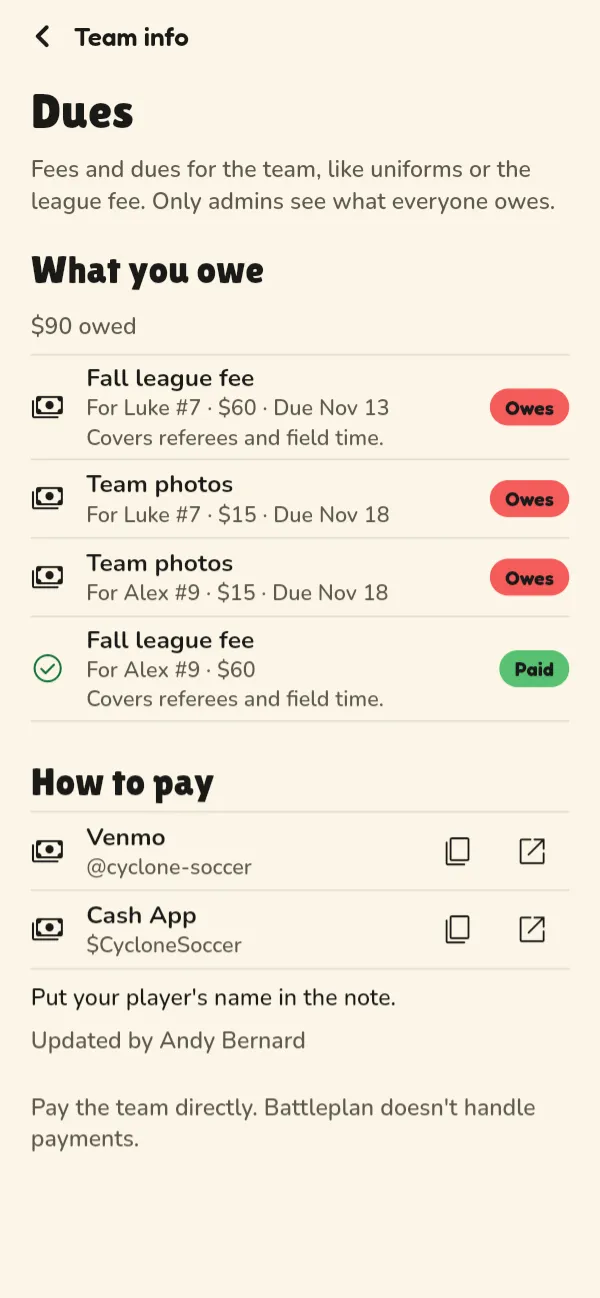
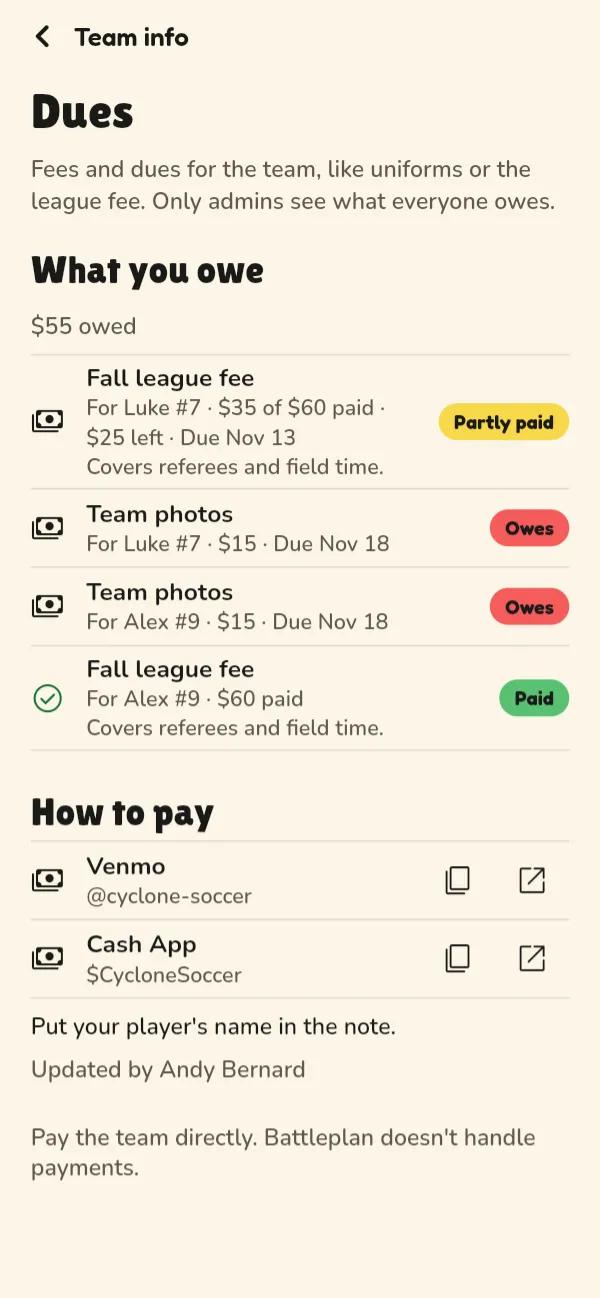
The landing page's Group chat screenshot is Riverside Sluggers' chat, and both Dues screenshots show partial payments, retaken from the seed with alt text that says what each one shows

diff --git a/website/index.html b/website/index.html
@@ -227,7 +227,7 @@
           <li class="tile">
             <h3>Group chat</h3>
             <p>Photos, replies, mentions, and pinned announcements.</p>
-            <div class="shot"><div class="phone"><img src="/images/team-chat-navy.webp" width="600" height="1298" loading="lazy" decoding="async" alt="Riverside Sluggers' team chat in the Navy color scheme, the day after a walk-off win: a guardian's small photo of the scoreboard with its reactions, your own reminder about gloves, bats, and helmets in a red bubble, marked Sent, and messages about sunflower seeds and batting gloves."><span class="tag" data-s="navy" aria-hidden="true">Navy</span></div></div>
+            <div class="shot"><div class="phone"><img src="/images/team-chat-navy.webp" width="600" height="1298" loading="lazy" decoding="async" alt="Riverside Sluggers' team chat in the Navy color scheme, the day after a walk-off win: Kelly, Mateo's guardian, shares a small photo of the Riverside Park scoreboard, still smiling about Mateo's walk-off double, with 2 Love and 2 Fire reactions; your own message in a red bubble, marked Sent: what a finish, and for Saturday, gloves, bats, and helmets, with catchers bringing their gear; Dave, Ben's guardian, says sunflower seeds and the water cooler are on them, with a Like and a Love; and Jen, Leo's guardian, says Leo found his batting gloves, crisis averted."><span class="tag" data-s="navy" aria-hidden="true">Navy</span></div></div>
           </li>
           <li class="tile">
             <h3>Games and RSVPs</h3>
@@ -321,8 +321,8 @@
           </ul>
         </div>
         <div class="spot-media pair">
-          <div class="phone"><img src="/images/dues-army.webp" width="600" height="1298" loading="lazy" decoding="async" alt="A team admin's Dues screen in the Army green color scheme: a $30 tournament fee, 1 of 2 paid with $30 still owed, and $45 uniforms, 2 of 3 paid with $45 still owed, then How to pay with the team's Venmo and Cash App."><span class="tag" data-s="army" aria-hidden="true">Army green</span></div>
-          <div class="phone"><img src="/images/dues-mine-light.webp" width="600" height="1298" loading="lazy" decoding="async" alt="What you owe in the Light color scheme: a guardian's dues for Luke and Alex, $90 owed in all, with Luke's fall league fee and team photos and Alex's team photos marked Owes and Alex's fall league fee marked Paid, then How to pay with the team's Venmo and Cash App."><span class="tag" data-s="light" aria-hidden="true">Light</span></div>
+          <div class="phone"><img src="/images/dues-army.webp" width="600" height="1298" loading="lazy" decoding="async" alt="Thunder's Dues screen as a team admin sees it, in the Army green color scheme: $195 owed in all, $140 paid, and $55 left, with Who owes what under it; a $30 tournament fee due Nov 10, 1 of 2 paid with $30 left; $45 uniforms due Nov 16, 2 of 3 paid and 1 partly paid with $25 left; then How to pay with the team's Venmo and Cash App."><span class="tag" data-s="army" aria-hidden="true">Army green</span></div>
+          <div class="phone"><img src="/images/dues-mine-light.webp" width="600" height="1298" loading="lazy" decoding="async" alt="What you owe on Cyclone in the Light color scheme, a guardian's dues for Luke and Alex: $55 owed. Luke's $60 fall league fee is Partly paid, $35 paid with $25 left, due Nov 13; Luke's and Alex's $15 team photos, due Nov 18, are marked Owes; and Alex's fall league fee is Paid, $60. Then How to pay with the team's Venmo and Cash App."><span class="tag" data-s="light" aria-hidden="true">Light</span></div>
         </div>
       </div>
     </section>

diff --git a/docs/ROADMAP.md b/docs/ROADMAP.md
@@ -9,7 +9,7 @@ Every task and feature for Battleplan, in one numbered list, in the order they s
 - Feature IDs (AUTH-1, CHAT-6, …) point to SPEC §6. The details live there; this file is the order.
 - Milestones M0 to M8 each ended working on iOS, Android, and web, with rules tests updated (SPEC §9). Go-live then runs in six phases, web first (below). Until Phase 4 the native apps keep building and passing tests, but don't ship.
 
-Last updated: 2026-11-07. Dues take partial payments, and admins see who owes what, by due and by person (task 361). Before that, 2026-11-06: the landing page's screenshots, its link preview image, and the Play phone screenshots are retaken in Open Field (task 354). The landing page's Group chat screenshot is becoming a baseball team's chat: the sample data has the team, Riverside Sluggers, and the capture is next (task 360). Super admins open the Admin panel in one tap from Teams and every team's tabs (task 359). The landing page's screenshots, its link preview image, and the Play phone screenshots are retaken in Open Field (task 354). The landing page and its link preview image say it's for groups and sports teams, its Team chat tile is now Group chat, and Apple's App Store badge is on the website and the web app's invite page (task 353). Guardians answer for each of their players on that player's own RSVP row, in the app and from an RSVP email; the All my players shortcut is gone (task 358). The Stencil Crest is the new app icon and brand mark (task 356). The website's landing page is redone in Open Field, with a picker for all five color schemes, fewer words, new screenshots, and structured data and `llms.txt` for search and AI (task 351). Dues are built: admins track who owes and who paid for uniforms and fees, and share how to pay person to person (task 350). Open Field, one look in five color schemes, each person's own per team, with team RSVPs for players only and a color for your icon, is being built (tasks 340 to 349): the schemes, both pickers, the header, tab bars, Teams and Profile, the schedule, the event screen, chat, settings and the other screens, players-only RSVPs, and your icon color are done (tasks 340 to 348). Before that, 2026-10-25: Battleplan 1.1, Gumdrop Pop, is built for the web: three themes, team colors in the backgrounds, and the website to match (tasks 292 to 297); it waits for Release to prod (task 298), and iOS 1.1 is held back (task 299). Before that, 2026-10-17: Sign in with Apple is built, and Firebase has Apple's key in dev and prod; prod shows it after the next Release to prod (tasks 107, 109, 291). Before that, 2026-10-15, after checking every open task against the code and the live projects; a few were done and are now checked off (tasks 120 and 199). Since 2026-10-13: release workflows (tasks 230, 231), the owner's changes from trying the app (tasks 232 to 237), and the brand mark (task 238). Before that: The website and web app are live on prod at https://getbattleplan.app (Phase 1 tasks 111, 114 to 118, 121, 134, 187). M5 (Polls), M6 (Schedule), M7 (Documents), and M8 (God admin panel) are built, and the website is live on dev with the web app at /app. The first three v1.1 tasks are built: mentions, pins, and announcements; roster details and contact sharing; and answering for all my players with each player's RSVP history (tasks 135 to 137). Teams are now one type with players on every team, claims, and admin approval (tasks 181 to 186), and coaches can keep player details such as date of birth (tasks 216 to 218). The old M9 and Launch sections are replaced by six go-live phases: the website and web app first, then GDPR, backups, and security, then Sign in with Apple, the App Store, Google Play, and Facebook sign-in, each in its own phase (D60).
+Last updated: 2026-11-07. Dues take partial payments, and admins see who owes what, by due and by person, and the landing page's Dues screenshots show it (task 361). Before that, 2026-11-06: the landing page's screenshots, its link preview image, and the Play phone screenshots are retaken in Open Field (task 354). The landing page's Group chat screenshot is a baseball team's chat, Riverside Sluggers' (task 360). Super admins open the Admin panel in one tap from Teams and every team's tabs (task 359). The landing page's screenshots, its link preview image, and the Play phone screenshots are retaken in Open Field (task 354). The landing page and its link preview image say it's for groups and sports teams, its Team chat tile is now Group chat, and Apple's App Store badge is on the website and the web app's invite page (task 353). Guardians answer for each of their players on that player's own RSVP row, in the app and from an RSVP email; the All my players shortcut is gone (task 358). The Stencil Crest is the new app icon and brand mark (task 356). The website's landing page is redone in Open Field, with a picker for all five color schemes, fewer words, new screenshots, and structured data and `llms.txt` for search and AI (task 351). Dues are built: admins track who owes and who paid for uniforms and fees, and share how to pay person to person (task 350). Open Field, one look in five color schemes, each person's own per team, with team RSVPs for players only and a color for your icon, is being built (tasks 340 to 349): the schemes, both pickers, the header, tab bars, Teams and Profile, the schedule, the event screen, chat, settings and the other screens, players-only RSVPs, and your icon color are done (tasks 340 to 348). Before that, 2026-10-25: Battleplan 1.1, Gumdrop Pop, is built for the web: three themes, team colors in the backgrounds, and the website to match (tasks 292 to 297); it waits for Release to prod (task 298), and iOS 1.1 is held back (task 299). Before that, 2026-10-17: Sign in with Apple is built, and Firebase has Apple's key in dev and prod; prod shows it after the next Release to prod (tasks 107, 109, 291). Before that, 2026-10-15, after checking every open task against the code and the live projects; a few were done and are now checked off (tasks 120 and 199). Since 2026-10-13: release workflows (tasks 230, 231), the owner's changes from trying the app (tasks 232 to 237), and the brand mark (task 238). Before that: The website and web app are live on prod at https://getbattleplan.app (Phase 1 tasks 111, 114 to 118, 121, 134, 187). M5 (Polls), M6 (Schedule), M7 (Documents), and M8 (God admin panel) are built, and the website is live on dev with the web app at /app. The first three v1.1 tasks are built: mentions, pins, and announcements; roster details and contact sharing; and answering for all my players with each player's RSVP history (tasks 135 to 137). Teams are now one type with players on every team, claims, and admin approval (tasks 181 to 186), and coaches can keep player details such as date of birth (tasks 216 to 218). The old M9 and Launch sections are replaced by six go-live phases: the website and web app first, then GDPR, backups, and security, then Sign in with Apple, the App Store, Google Play, and Facebook sign-in, each in its own phase (D60).
 
 ---
 
@@ -316,7 +316,7 @@ The owner's request (2026-10-25): Gumdrop Pop Navy as the default look, named Gu
 348. ✅ Your icon color (owner's request 2026-11-06: "Let each user pick a color they want their icon to be if they don't choose an image. Show the icon in the bubble next to their messages in chat."; SPEC SET-8, CHAT-1, ARCH §6.2). *Profile → Your icon has seven candy colors (Blue raspberry, Lemon, Mint, Grape, Bubblegum, Tangerine, Cherry) for when there's no photo, with an In chat preview; until someone picks, the hashed color shows as picked, and Profile's row says Photo or the color's name. The color is `users.avatarColor`; Functions copy it to every membership and the direct chats' people map, on a change and at every new membership, and each message snapshots it as `authorAvatarColor`, so older messages keep their color. The admin console, @mention suggestions and Blocked people keep the hashed color. Icons get a thin ring in Light blue.*
 349. Refuse new member RSVPs on teams, once builds from before task 347 have aged out (ARCH §6.3).
 350. ✅ Dues (owner's request 2026-11-06: "Add a new feature called “Dues” where team admins can assign dues/fees to players (in teams) or individuals (in groups) to track who paid for things like uniforms, team fees, etc. … i do not want the site to be used to process payments … Don't let non-admins see what other people owe/paid."; SPEC DUES-1 to DUES-4, §3, §5.1, ARCH §5.4, §6.2, §6.3). *Team info → **Dues**: admins add a due (what it's for, an amount up to $10,000 in US dollars, an optional date and note) for every player on a team or every member of a group, any unchecked, and mark each person Paid, Not paid, or Waived, seeing "4 of 12 paid · $90 owed"; editing changes everyone's share, and deleting takes the shares too. Everyone else sees only What you owe: their own share in a group, or their players' on a team. **How to pay** shares a Venmo username, Cash App $cashtag, Apple Cash phone or email, and a note, with Copy, and Open on the web and Android; Battleplan never takes payments. Three new collections, `dues` (admins only), `dueCharges` (one per person, read by admins and that person or the player's linked members), and `duesPayments`, with their own rules, so older builds are untouched; the `saveDue` and `deleteDue` callables add, edit, and delete a due with all its shares in one batch, and Functions delete them with the team. Checked against both stores' payment rules on 2026-11-06, at the owner's request ("Make sure the dues section is not going to run into compliance problems with apple app store or google play rules or require to give them a cut of team fees."): neither store takes a cut, since dues are paid person to person for real-world things; the App Review and Play notes say so, and the store checklist's Store payment rules has the guidelines.*
-361. ✅ Partial payments, and who owes what (owner's request 2026-11-07: "In the dues section, allow for and account for partial payments for items. In the admin page make sure there's a good breakdown of who owes what."; SPEC DUES-1, DUES-2, DUES-4, DUES-5, §3, ARCH §5.4, §6.2, §6.3, §6.4, §15). *Admins open a share and **Record a payment** (any amount up to what's left, the day it was paid, and a short note), **Mark paid in full** (what's left, in one tap), **Waive the rest**, or **Undo** a mistaken payment; shares read Owes, Partly paid ("$20 of $45 paid · $25 left"), Paid, or Waived, and members see what they've paid and what's left on their own, and open a share to see its payments. The Dues screen opens with what's owed in all, paid, and left, and **Who owes what** (`/g/{groupId}/dues/people`) lists each person, who owes most first, with every due they're on; each row reads as one sentence to screen readers ("Ava #12, Tournament fee, $20 left of $30"). Each share keeps its payments (`payments`, at most 50, and `paidCents`), written by the app in a transaction that the rules check is one payment added in the admin's own name or one taken back, with the total never over the amount, so two admins recording at once both count. `saveDue` edits in a transaction, keeps every payment, and refuses an amount below what someone paid; a share marked paid before this counts as paid in full. Still record keeping only: Battleplan never takes or moves money. The privacy policy, STORE-PRIVACY.md, the store review notes, the iPhone privacy manifest's note, `llms.txt`, and the landing page's Dues section and FAQ say so; the seed's Thunder and Cyclone dues have a mix of paid, partly paid, and owed. 👤 **Jared:** run **Release to dev**, then **Release to prod**, so the rules and `saveDue` go out with the web app (a web app on older rules can't record a payment, and an older `saveDue` would copy a new amount without the payments' statuses), and retake the landing page's `dues-army.webp` and `dues-mine-light.webp` from the seed ([website/README.md](../website/README.md), "Screenshots").*
+361. ✅ Partial payments, and who owes what (owner's request 2026-11-07: "In the dues section, allow for and account for partial payments for items. In the admin page make sure there's a good breakdown of who owes what."; SPEC DUES-1, DUES-2, DUES-4, DUES-5, §3, ARCH §5.4, §6.2, §6.3, §6.4, §15). *Admins open a share and **Record a payment** (any amount up to what's left, the day it was paid, and a short note), **Mark paid in full** (what's left, in one tap), **Waive the rest**, or **Undo** a mistaken payment; shares read Owes, Partly paid ("$20 of $45 paid · $25 left"), Paid, or Waived, and members see what they've paid and what's left on their own, and open a share to see its payments. The Dues screen opens with what's owed in all, paid, and left, and **Who owes what** (`/g/{groupId}/dues/people`) lists each person, who owes most first, with every due they're on; each row reads as one sentence to screen readers ("Ava #12, Tournament fee, $20 left of $30"). Each share keeps its payments (`payments`, at most 50, and `paidCents`), written by the app in a transaction that the rules check is one payment added in the admin's own name or one taken back, with the total never over the amount, so two admins recording at once both count. `saveDue` edits in a transaction, keeps every payment, and refuses an amount below what someone paid; a share marked paid before this counts as paid in full. Still record keeping only: Battleplan never takes or moves money. The privacy policy, STORE-PRIVACY.md, the store review notes, the iPhone privacy manifest's note, `llms.txt`, and the landing page's Dues section and FAQ say so; the seed's Thunder and Cyclone dues have a mix of paid, partly paid, and owed. 👤 **Jared:** run **Release to dev**, then **Release to prod**, so the rules and `saveDue` go out with the web app (a web app on older rules can't record a payment, and an older `saveDue` would copy a new amount without the payments' statuses). The landing page's `dues-army.webp` (Thunder as an admin: $195 owed in all, $140 paid, $55 left, with **Who owes what** under it, and the uniforms 2 of 3 paid · 1 partly paid · $25 left) and `dues-mine-light.webp` (Claire's **What you owe** on Cyclone: $55 owed, Luke's league fee Partly paid, $35 of $60) were retaken from the seed 2026-11-07, with their alt text to match ([website/README.md](../website/README.md), "Screenshots").*
 358. ✅ Each player on their own RSVP row, with no All my players (owner's request 2026-11-06: "Remove the “all my players” option. Each player should be individually listed and addressed in the RSVP section."; SPEC PLAYER-11, SCHED-4, SCHED-14, ARCH §6.15, §15). *A guardian of two or more players answers for each one on their own row, named by first name, with that player's own Going / Maybe / Not going, on the event's page, the chat card, and the schedule list; a tap changes that player's answer alone. The All my players row above them is gone from the event's page and the chat card, with its batch write (`RsvpRepository.setRsvps`) and its string. The RSVP email (SCHED-14) asks about each player on their own with their own buttons, where it asked "Are Emma and Liam going?" with one answer for both, and its answer page has each player's own answers and note, picking the tapped one for that player and showing the others' saved answers; Send saves only the players given an answer. Notes, deadlines, archived teams, RSVP for a player, and groups work as before; the Firestore rules didn't change, since they already check and count each answer on its own. The email's change reaches people with the next Functions deploy. The landing page's `youth-light.webp` is retaken to match, with Luke and Alex each on their own row. The bare RSVPs heading is gone too: an admin who answers for nobody, like a coach, has no RSVP section unless it gives the deadline or says RSVPs are closed, and Who's going, with RSVP for a player, follows the event's details.*
 359. ✅ The Admin panel in one tap (owner's request 2026-11-07: "make admin panel easier to get to with fewer steps to get there"; SPEC §5.1, §5.5, §6.11, ARCH §5.4, §5.5). *A super admin has an **Admin panel** button, a shield, in the Teams header and in a team's header on every tab, before Messages, on phones; at 840 px and up it's at the foot of the rail instead, on Teams, Profile, and a team's tabs, read as a button rather than a tab. Profile keeps its row. From a team's chat, where the app usually opens, it took three taps (back to Teams, Profile, Admin panel); now one, and it opens over the team, so Back comes back. Inside the panel on phones, every section has the menu now: opened over another page, as Profile's row always opened it, the dashboard and every section had only Back, so the audit log and platform settings took four more taps (a total, Back, the menu, the section) and now take two (the menu, the section); a team's or a person's page keeps Back. The menu's labels end in an ellipsis rather than overflow at large text sizes. Nobody else sees anything new, the panel's code still loads only when it opens, and the `/admin` guard is unchanged. No keyboard shortcut: the app has shortcuts only inside a team (Ctrl/⌘+K, Ctrl/⌘+F), the free keys aren't memorable (Ctrl/⌘+Shift+A is Chrome's tab search), and on the web the rail is one click.*
 357. ✅ The landing page's footer says who made the app (owner's request 2026-11-06: "add a footer on the landing page indicating that the Battleplan app was created by Battle Sports and Battle Baseball."). *"The Battleplan app was created by Battle Sports and Battle Baseball." beside a Battle Baseball wordmark redrawn as inline SVG in the site's own fonts (cream Lilita One BATTLE over coral Black Ops One BASEBALL, outlined in ink on an offset shadow), so nothing loads from elsewhere.*
@@ -329,7 +329,7 @@ The owner's request (2026-10-25): Gumdrop Pop Navy as the default look, named Gu
 352. iOS 1.2: Open Field, icon colors, players-only RSVPs, and Dues (tasks 340 to 351). *Version 1.2.0 in pubspec.yaml since 2026-11-06, since App Store Connect takes no more 1.1.0 builds; [STORE-LISTING.md](STORE-LISTING.md) has 1.2's What's New, the description with Dues, and the Dues review note; the privacy manifest declares Other Financial Info for Dues; the App Store screenshots in `store/app-store/` were retaken in Open Field's Army green on 2026-11-06, with Saturday Run Club's chat (STORE-LISTING.md, Screenshots). Still to do: give the App Review demo team a sample due (`tools/seed/demo-data.ts`). Then 👤 **Jared:** run **Release iOS**; in App Store Connect add version 1.2, pick the build, paste What's New, the description, and the review notes, replace the screenshots, change App Privacy as [STORE-PRIVACY.md](STORE-PRIVACY.md) says under "Dues: what to change in the consoles", and submit it for review. Once 1.2 is out, take "Dues and the new color schemes come to the iPhone app in its next update" off the landing page's FAQ (its text and its JSON-LD), `support.html`, and `llms.txt`.*
 354. ✅ Retake the landing page's screenshots once the app fixes of 2026-11-06 land ([website/README.md](../website/README.md), "Screenshots"), `whiteboard-army.webp` first: it still shows the old sample play, a baseball diamond under Cyclone (a soccer team) with its title cut to "Relay home fro…". The seed now makes it Thunder's play, Relay home (`/g/thunder/plays/thunder-relay-home`). *Retaken 2026-11-06 from the app as of the Stencil Crest, each player's own RSVP row, and the group Saturday Run Club, against freshly seeded emulators: all fourteen of the landing page's screenshots (Thunder's schedule as Jim in all five schemes, Saturday Run Club's group chat with only messages and its small photo, the Eagles game's RSVPs, the tournament poll, documents, All my teams, a guardian's practice with Luke and Alex on their own rows, both Dues views, and Thunder's Relay home on the whiteboard, its title in full), with every alt text and the README's table to match; the link-preview image `og.jpg` from the new schedule shots, with the Stencil Crest and "For Groups and Sports Teams"; and the six Google Play phone screenshots in Open Field's Army green, with the run club's chat first ([STORE-LISTING-PLAY.md](STORE-LISTING-PLAY.md)). The App Store set is still task 352's.*
 355. 👤 **Jared:** Tell everyone about the Privacy Policy and Terms update for Dues (2026-11-06): in the Admin panel, turn on **Announcement banner** (Show a banner to everyone) with text such as "We updated our Privacy Policy and Terms for Dues: getbattleplan.app/privacy", severity Info, ending in 30 days (SPEC §6.11, the policy's "Changes to this policy"). Dues collect something new, so the policy promises to say so in the app or by email. The Terms change only spells out that Battleplan isn't part of payments between members and that deleting a team erases its dues; it takes away no one's rights, so it doesn't need the Terms' 14 days.
-360. The landing page's Group chat screenshot shows a baseball team's chat (owner's request 2026-11-07: "On the landing page there's screenshot of the group chat but it's too generic. Replace it with one about baseball from the perspective of a team chat."; the owner's rule for that shot still holds: "a chat that is just messages, with a small image, and no events showing up in the screenshot"; SPEC WEB-1; [website/README.md](../website/README.md), "Screenshots"). *The sample data has the team: Riverside Sluggers, a youth baseball team in red with its chat bubbles in the team color, owned by the coach, with an assistant coach, three guardians, and nine players, and no events, polls, dues, or documents. Its chat is the day after a walk-off win: pitch counts, a rally cap, a reply about the field after the rain, Kelly's small photo of the scoreboard (`tools/seed/store-shots/scoreboard.jpg`, drawn in code with no people), the coach's reminder about gloves, bats, and helmets, and sunflower seeds. Nobody replies to or mentions the coach, so the coach's bell count doesn't change; everyone has read it, so it opens at the newest message with nothing unread; and the coach still lands on Thunder after signing in, or in Saturday Run Club after `store-shots.ts`, which moves the Sluggers' chat to yesterday afternoon. Claire, Jim, and Rachel aren't on it, so their screenshots don't change. The tile's image is now `website/images/team-chat-navy.webp`, with alt text for the new chat; until it's captured, the file is still Saturday Run Club's chat. Still to do: capture `/g/sluggers/chat` as the coach in Navy and make the alt text exact.*
+360. ✅ The landing page's Group chat screenshot shows a baseball team's chat (owner's request 2026-11-07: "On the landing page there's screenshot of the group chat but it's too generic. Replace it with one about baseball from the perspective of a team chat."; the owner's rule for that shot still holds: "a chat that is just messages, with a small image, and no events showing up in the screenshot"; SPEC WEB-1; [website/README.md](../website/README.md), "Screenshots"). *The sample data has the team: Riverside Sluggers, a youth baseball team in red with its chat bubbles in the team color, owned by the coach, with an assistant coach, three guardians, and nine players, and no events, polls, dues, or documents. Its chat is the day after a walk-off win: pitch counts, a rally cap, a reply about the field after the rain, Kelly's small photo of the scoreboard (`tools/seed/store-shots/scoreboard.jpg`, drawn in code with no people), the coach's reminder about gloves, bats, and helmets, and sunflower seeds. Nobody replies to or mentions the coach, so the coach's bell count doesn't change; everyone has read it, so it opens at the newest message with nothing unread; and the coach still lands on Thunder after signing in, or in Saturday Run Club after `store-shots.ts`, which moves the Sluggers' chat to yesterday afternoon. Claire, Jim, and Rachel aren't on it, so their screenshots don't change. The tile's image, `website/images/team-chat-navy.webp`, was captured 2026-11-07 from `/g/sluggers/chat` as the coach in Navy against freshly seeded emulators: Kelly's photo of the scoreboard in full at the top, the coach's reminder in the team's red, marked Sent, then Dave's sunflower seeds and Jen's batting gloves, with no event cards or polls, and its alt text says what each message says.*
 
 ## Go-live in six phases
 

diff --git a/website/README.md b/website/README.md
@@ -84,7 +84,7 @@ The screenshots show the app with the seeded sample teams (Thunder, Cyclone, and
 | Image | Scheme | Signed in as | Screen |
 |---|---|---|---|
 | `schedule-army`, `-light`, `-dark`, `-navy`, `-skyblue` (hero) | all five | `jim@example.com` | Thunder's schedule as a player: their own Going, Maybe, and Not going on the cards and a practice still to answer, the same screen in each scheme |
-| `team-chat-navy` | Navy | `coach@example.com` | Riverside Sluggers' team chat (the Group chat tile, at the owner's request of 2026-11-07): messages from the coaches and guardians and Kelly's small photo of the scoreboard only, with no event cards or polls in view. Until it's retaken (ROADMAP task 360), the file is still Saturday Run Club's chat |
+| `team-chat-navy` | Navy | `coach@example.com` | Riverside Sluggers' team chat (the Group chat tile, at the owner's request of 2026-11-07): messages and Kelly's small photo of the scoreboard only (her photo, the coach's own reminder in the team's red, then Dave's and Jen's messages), with no event cards or polls in view |
 | `event-skyblue` | Light blue | `coach@example.com` | Thunder's game against the Eagles, with the RSVPs: 2 of 3 players going |
 | `poll-dark` | Dark | `rachel@example.com` | Rally Possums' chat at Rachel's tournament poll, with the replies under it |
 | `documents-navy` | Navy | `coach@example.com` | Thunder's documents |
@@ -94,12 +94,12 @@ The screenshots show the app with the seeded sample teams (Thunder, Cyclone, and
 | `dues-mine-light` | Light | `claire@example.com` | **What you owe** on Cyclone ($55 owed: Luke's fall league fee $35 of $60 paid, Luke's and Alex's team photos owed, Alex's league fee paid) and **How to pay** |
 | `whiteboard-army` | Army green | `coach@example.com` | Plays: Thunder's Relay home on the coach's whiteboard, at step 2 of 2 |
 
-The current set (Open Field, all five schemes, 2026-11-06, the owner's request) are captures of the real web app against the emulators. To retake them: start the emulators fresh (restart rather than clearing over REST), seed them (DEVELOPMENT.md), and build from a scratch copy with `bannerLabel` in `lib/core/env.dart` returning null (never commit that), with `flutter build web -t lib/main_dev.dart --dart-define=USE_EMULATORS=true --no-web-resources-cdn --base-href /app/` (CanvasKit: headless Chrome doesn't paint the wasm build), plus `tools/fetch_fallback_fonts.dart` into its `fonts/fallback/` for the emoji. Seed and browse in one time zone where it's currently daytime (seed with `TZ=` set and the seed's `America/Chicago` swapped to match in a scratch copy, and `page.emulateTimezone` in Chrome), so message times look normal and cards skip the "your time" line. Serve the build under `/app/` and drive headless Chrome at 390 × 844 with a device scale of 600 / 390: hide `.firebase-emulator-warning`, sign in with the keyboard alone (Tab to Email and to Password, typing in each, then Sign in through the semantics tree: Flutter keeps a mouse's hover where it last clicked, which lights up whatever later sits there), open each screen by its route (`history.pushState` and a `popstate` event, since a reload signs out), and press buttons through the semantics tree (clicking a `flt-semantics[role=button]` element), since synthetic mouse clicks don't reach some of them.
+The current set (Open Field, all five schemes, 2026-11-06, the owner's request; `team-chat-navy` and both Dues shots retaken 2026-11-07) are captures of the real web app against the emulators. To retake them: start the emulators fresh (restart rather than clearing over REST), seed them (DEVELOPMENT.md), and build from a scratch copy with `bannerLabel` in `lib/core/env.dart` returning null (never commit that), with `flutter build web -t lib/main_dev.dart --dart-define=USE_EMULATORS=true --no-web-resources-cdn --base-href /app/` (CanvasKit: headless Chrome doesn't paint the wasm build), plus `tools/fetch_fallback_fonts.dart` into its `fonts/fallback/` for the emoji. Seed and browse in one time zone where it's currently daytime (seed with `TZ=` set and the seed's `America/Chicago` swapped to match in a scratch copy, and `page.emulateTimezone` in Chrome), so message times look normal and cards skip the "your time" line. Serve the build under `/app/` and drive headless Chrome at 390 × 844 with a device scale of 600 / 390: hide `.firebase-emulator-warning`, sign in with the keyboard alone (Tab to Email and to Password, typing in each, then Sign in through the semantics tree: Flutter keeps a mouse's hover where it last clicked, which lights up whatever later sits there), open each screen by its route (`history.pushState` and a `popstate` event, since a reload signs out), and press buttons through the semantics tree (clicking a `flt-semantics[role=button]` element), since synthetic mouse clicks don't reach some of them.
 
 - **Schemes:** after signing in, PATCH `users/<uid>` with `colorScheme` (`army`, `light`, `dark`, `navy`, or `skyblue`) through the emulator's REST API (`Authorization: Bearer owner`, `updateMask.fieldPaths=colorScheme`). The app recolors live, so the five `schedule-*` shots come from one sign-in. Per-team picks (`groupMembers/<groupId>_<uid>.colorScheme`) aren't seeded, so the default applies everywhere.
 - **Schedule:** Jim's account is linked to the player Jim Halpert on Thunder, so every card on that schedule has an answer row; the seed answers Going, Maybe, and Not going and leaves the third practice unanswered. The coach has no player, so the coach's cards only count who's going. Open `/g/thunder/schedule` (Upcoming).
 - **Group chat:** as the coach, open Riverside Sluggers' chat (`/g/sluggers/chat`) and check that only messages and the small photo are in view: no event cards or polls (the team has none). Chat opens at the first unread message; the seed has everyone read it all, so it opens at the newest. At 390 wide that shows Kelly's photo of the scoreboard in full at the top, then the coach's own message in the team's red, Dave's sunflower seeds, and Jen's batting gloves. If the top edge cuts a message, scroll with synthetic `wheel` events at the left edge rather than the mouse until it falls between two.
-- **Dues:** open `/g/<team>/info`, then press **Dues** (going there directly leaves the app bar without its back button). The seed's dues are on Thunder and Cyclone, with shares paid in full, partly paid, and owed. Retake both with the partial payments of 2026-11-07 (task 361), and change their alt text in `index.html` to match.
+- **Dues:** open `/g/<team>/info`, then press **Dues** (going there directly leaves the app bar without its back button). The seed's dues are on Thunder and Cyclone, with shares paid in full, partly paid, and owed; both shots show the partial payments of 2026-11-07 (task 361). Their alt text in `index.html` names the due dates, which move with the seed day: change them with a retake.
 - **All my teams:** press **Filter**, the **All my teams** switch, then **Dismiss**.
 - **Whiteboard:** open `/g/thunder/plays/thunder-relay-home`, press **Next step**, and wait about 4 seconds.
 - **Focus rings:** run `document.activeElement.blur()` before each shot (the documents filter field and closed sheets leave focus behind).
